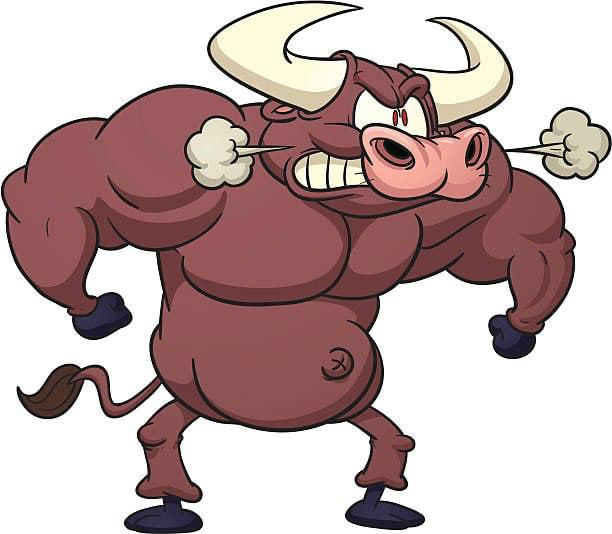
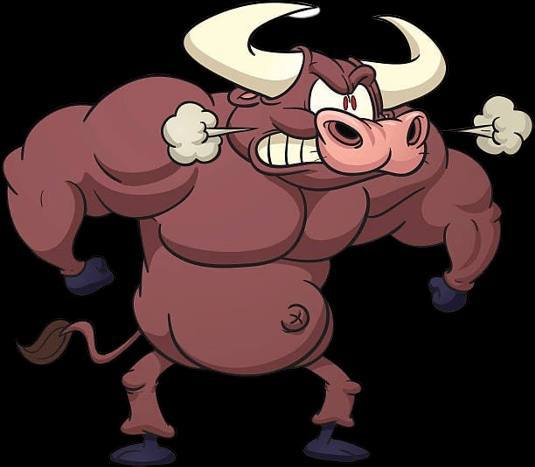
All Changes Made

diff --git a/index.html b/index.html
@@ -362,7 +362,7 @@
                                 <span class="sub-title">Bullrun Betting</span>
                                 <h2 class="title" style="color: #fff;">FIRST RACE STARTS IN</h2>
                             </div>
-                            <h1 style="color: #fff;" class="info-one" id="timer">00:00:00</h1>
+                            <h1 style="color: #fff;" class="info-one" id="timer">Calculating...</h1>
 
                             <a href="#" class="btn">Bet Here <span></span></a>
                         </div>
@@ -473,31 +473,31 @@
                                 <div class="swiper-wrapper">
                                     <div class="swiper-slide">
                                         <div class="project-item">
-                                            <a href="#"><img src="assets/img/images/01.jpg" alt=""></a>
+                                            <a href="#"><img src="assets/img/images/01.png" alt=""></a>
                                         </div>
                                     </div>
                                     <div class="swiper-slide">
                                         <div class="project-item">
-                                            <a href="#" class="popup-image"><img src="assets/img/images/04.jpg"
+                                            <a href="#" class="popup-image"><img src="assets/img/images/04.png"
                                                     alt=""></a>
                                         </div>
                                     </div>
                                     <div class="swiper-slide">
                                         <div class="project-item">
-                                            <a href="#" class="popup-image"><img src="assets/img/images/02.jpg"
+                                            <a href="#" class="popup-image"><img src="assets/img/images/02.png"
                                                     alt=""></a>
                                         </div>
                                     </div>
                                     <div class="swiper-slide">
                                         <div class="project-item">
-                                            <a href="#"><img src="assets/img/images/05.jpg" alt=""></a>
+                                            <a href="#"><img src="assets/img/images/05.png" alt=""></a>
                                         </div>
                                     </div>
 
 
                                     <div class="swiper-slide">
                                         <div class="project-item">
-                                            <a href="#"><img src="assets/img/images/03.jpg" alt=""></a>
+                                            <a href="#"><img src="assets/img/images/03.png" alt=""></a>
                                         </div>
                                     </div>
 
@@ -628,25 +628,29 @@
     <!-- JS here -->
 
     <script>
-        // Set the target countdown date and time
-        const targetDate = new Date("2023-12-31T23:59:59").getTime();
+   // Calculate the target date and time which is 3 days from now
+const now = new Date();
+const targetDate = new Date(now.getTime() + (3 * 24 * 60 * 60 * 1000)); // 3 days * 24 hours * 60 minutes * 60 seconds * 1000 milliseconds
 
-        // Update the countdown every second
-        const countdownInterval = setInterval(() => {
-            const now = new Date().getTime();
-            const timeRemaining = targetDate - now;
+// Update the countdown every second
+const countdownInterval = setInterval(() => {
+  const currentTime = new Date().getTime();
+  const timeRemaining = targetDate - currentTime;
 
-            if (timeRemaining > 0) {
-                const hours = Math.floor((timeRemaining % (1000 * 60 * 60 * 24)) / (1000 * 60 * 60));
-                const minutes = Math.floor((timeRemaining % (1000 * 60 * 60)) / (1000 * 60));
-                const seconds = Math.floor((timeRemaining % (1000 * 60)) / 1000);
+  if (timeRemaining > 0) {
+    const days = Math.floor(timeRemaining / (1000 * 60 * 60 * 24));
+    const hours = Math.floor((timeRemaining % (1000 * 60 * 60 * 24)) / (1000 * 60 * 60));
+    const minutes = Math.floor((timeRemaining % (1000 * 60 * 60)) / (1000 * 60));
+    const seconds = Math.floor((timeRemaining % (1000 * 60)) / 1000);
 
-                document.getElementById("timer").textContent = `${hours.toString().padStart(2, '0')}:${minutes.toString().padStart(2, '0')}:${seconds.toString().padStart(2, '0')}`;
-            } else {
-                document.getElementById("timer").textContent = "Timer Expired!";
-                clearInterval(countdownInterval);
-            }
-        }, 1000);
+    document.getElementById("timer").textContent =  `${days}d : ${hours.toString().padStart(2, '0')}h : ${minutes.toString().padStart(2, '0')}m : ${seconds.toString().padStart(2, '0')}s`;
+  } else {
+    document.getElementById("timer").textContent = "Timer Expired!";
+    clearInterval(countdownInterval);
+  }
+}, 1000);
+
+
     </script>
     <script src="assets/js/vendor/jquery-3.6.0.min.js"></script>
     <script src="assets/js/bootstrap.min.js"></script>
